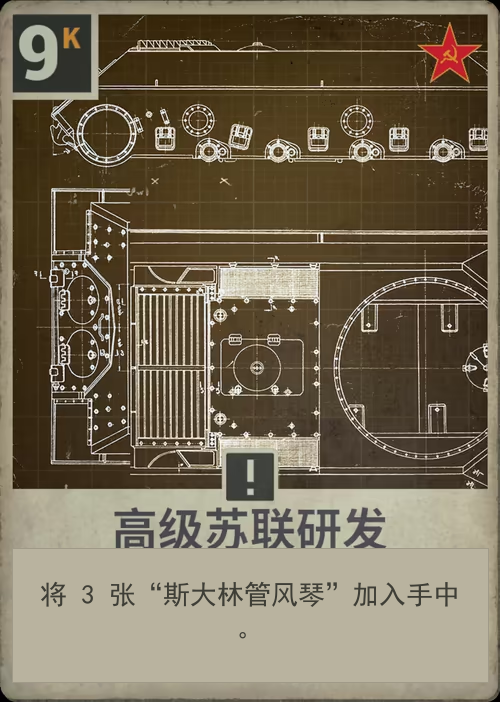
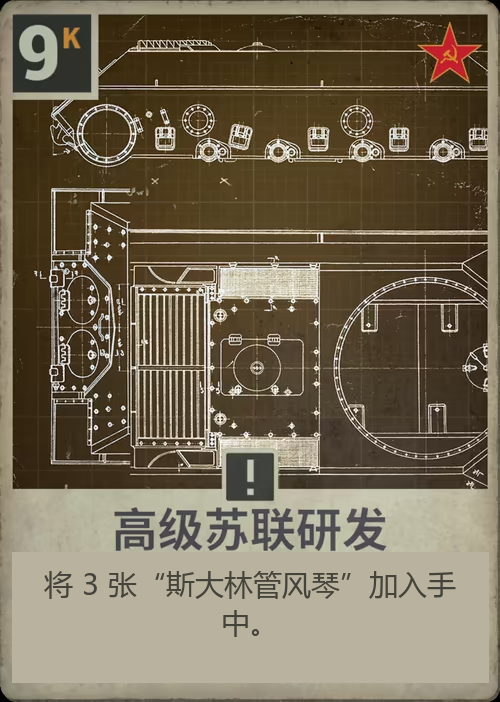
Polish choice cards and remove choice label

Changed region(s): [[0.3, 0.8077, 0.93, 0.9274], [0.09, 0.8077, 0.27, 0.8675]]

diff --git a/code/v0.1/mods/kards/code/cards/Soviet/card_kv1_1939.py b/code/v0.1/mods/kards/code/cards/Soviet/card_kv1_1939.py
@@ -6,43 +6,20 @@ _ROOT = Path(__file__).resolve().parents[5]
 if str(_ROOT) not in sys.path:
     sys.path.insert(0, str(_ROOT))
 
-from main import (
-    BattleGround,
-    Card,
-    CardData,
-    CardType,
-    Country,
-    DamageType,
-    Event,
-    EventType,
-    Procedure,
-    Rarity,
-)
+from main import CardData, CardType, Country, Rarity
 from mods.kards.code.keywords.armor import KEYWORD as ARMOR
-
-
-def enemy_drew(card: Card, event: Event, ground: BattleGround) -> bool:
-    """敌方抽牌"""
-    return event.player is card.controller.opponent
-
-
-def action(card: Card, event: Event, ground: BattleGround) -> None:
-    """对敌方总部造成 2 点伤害"""
-    enemy = card.controller.opponent
-    ground.damage(ground.hqs[enemy], 2, card, DamageType.NONE)
-
+from mods.kards.code.keywords.guard import KEYWORD as GUARD
 
 CARD_DATA = CardData(
     type=CardType.TANK,
     country=Country.SOVIET,
     cost=6,
     display_name="KV-1 1939",
-    text="重甲 1。敌方每抽 1 张牌，对其总部造成 2 点伤害。",
+    text="守护。重甲 1。",
     art="kv1_1939.png",
-    rare=Rarity.SPECIAL,
-    at=3,
-    df=6,
+    rare=Rarity.ELITE,
+    at=5,
+    df=7,
     operation_cost=2,
-    keywords=[ARMOR.with_val(1)],
-    procedures=[Procedure(EventType.DRAW, enemy_drew, action)],
+    keywords=[GUARD, ARMOR.with_val(1)],
 )

diff --git a/code/v0.1/mods/kards/code/cards/Soviet/card_kv1_1941.py b/code/v0.1/mods/kards/code/cards/Soviet/card_kv1_1941.py
@@ -6,20 +6,43 @@ _ROOT = Path(__file__).resolve().parents[5]
 if str(_ROOT) not in sys.path:
     sys.path.insert(0, str(_ROOT))
 
-from main import CardData, CardType, Country, Rarity
+from main import (
+    BattleGround,
+    Card,
+    CardData,
+    CardType,
+    Country,
+    DamageType,
+    Event,
+    EventType,
+    Procedure,
+    Rarity,
+)
 from mods.kards.code.keywords.armor import KEYWORD as ARMOR
-from mods.kards.code.keywords.guard import KEYWORD as GUARD
+
+
+def enemy_drew(card: Card, event: Event, ground: BattleGround) -> bool:
+    """敌方抽牌"""
+    return event.player is card.controller.opponent
+
+
+def action(card: Card, event: Event, ground: BattleGround) -> None:
+    """对敌方总部造成 2 点伤害"""
+    enemy = card.controller.opponent
+    ground.damage(ground.hqs[enemy], 2, card, DamageType.NONE)
+
 
 CARD_DATA = CardData(
     type=CardType.TANK,
     country=Country.SOVIET,
     cost=6,
     display_name="KV-1 1941",
-    text="守护。重甲 1。",
+    text="重甲 1。敌方每抽 1 张牌，对其总部造成 2 点伤害。",
     art="kv1_1941.png",
-    rare=Rarity.ELITE,
-    at=5,
-    df=7,
+    rare=Rarity.SPECIAL,
+    at=3,
+    df=6,
     operation_cost=2,
-    keywords=[GUARD, ARMOR.with_val(1)],
+    keywords=[ARMOR.with_val(1)],
+    procedures=[Procedure(EventType.DRAW, enemy_drew, action)],
 )

diff --git a/code/v0.1/main.py b/code/v0.1/main.py
@@ -6761,14 +6761,6 @@ class BattleUI:
         overlay = pygame.Surface(screen.get_size(), pygame.SRCALPHA)
         overlay.fill((8, 8, 6, 80))
         screen.blit(overlay, (0, 0))
-        self._text(
-            screen,
-            "抉择",
-            (screen.get_width() // 2, center_y - height // 2 - 44),
-            (235, 220, 175),
-            center=True,
-            font=self.big_font,
-        )
         self.choose_rects = []
         for index, option in enumerate(request.options[:2]):
             target_x = screen.get_width() // 2 + (index * 2 - 1) * (width + gap) // 2
